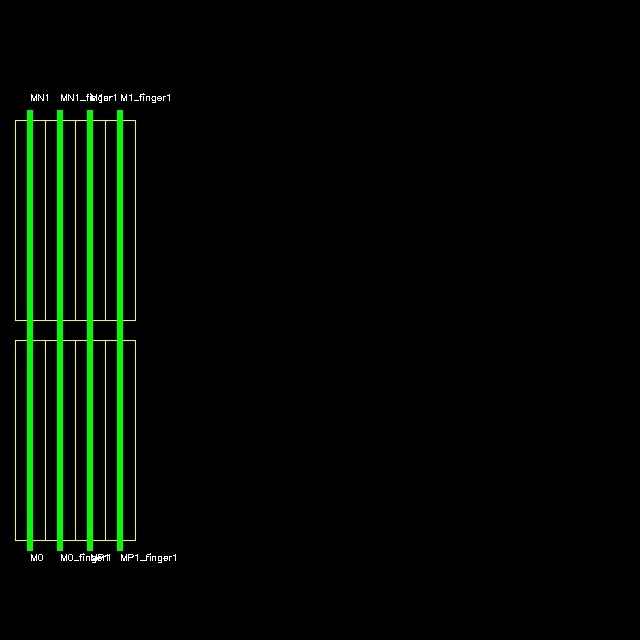
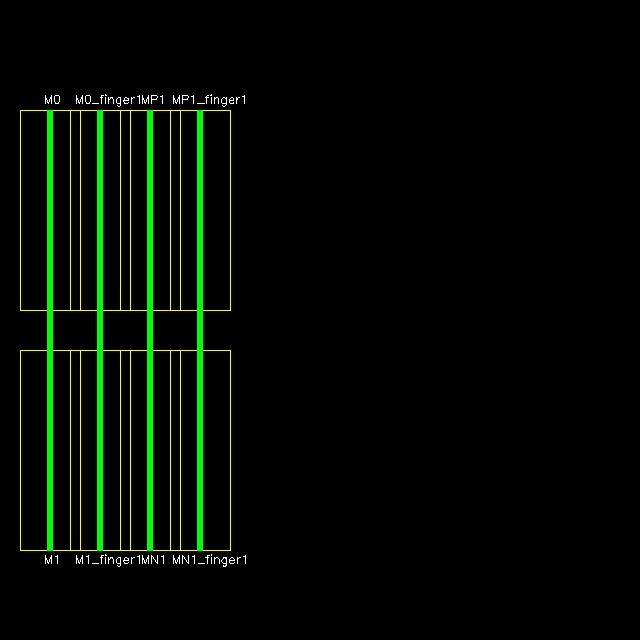
完善了对结果的可视化：两侧mos对齐及间距自适应

Changed region(s): [[0.0312, 0.125, 0.375, 0.875]]

diff --git a/visualize.py b/visualize.py
@@ -2,50 +2,32 @@
 Author       : luoweiWHUT 1615108374@qq.com
 Date         : 2023-10-18 18:42:38
 LastEditors  : luoweiWHUT 1615108374@qq.com
-LastEditTime : 2023-10-18 20:13:48
+LastEditTime : 2023-10-26 12:17:07
 FilePath     : \EDA_competition\visualize.py
 Description  : 
 '''
 import cv2,numpy
 from enum import Enum
-from typing import Any, Tuple
 class ChannelType(Enum):
     NMOS = 0,
     PMOS = 1
-class Transistor:
-    """
-    Abstract representation of a MOS transistor.
-    """
+class Mos:
+    __slots__=('name','x', 'y', 'source', 'drain', 'width')
+    def __init__(self, name,x, y, source, drain, width):
+        self.name=name
+        self.x = x
+        self.y = y
+        self.source = source
+        self.drain = drain
+        self.width = width
 
-    def __init__(self, channel_type: ChannelType,
-                 source_net: str, gate_net: str, drain_net: str,
-                 channel_width, name: str):
-        """
-        params:
-        left: Either source or drain net.
-        right: Either source or drain net.
-        """
-        self.name = name
-        self.channel_type = channel_type
-        self.source_net = source_net
-        self.gate_net = gate_net
-        self.drain_net = drain_net
-        self.channel_width = channel_width
-
-    def terminals(self) -> Tuple[Any, Any, Any]:
-        """ Return a tuple of all terminal names.
-        :return:
-        """
-        return self.source_net, self.gate_net, self.drain_net
-
-    def __key(self):
-        return self.name, self.channel_type, self.source_net, self.gate_net, self.drain_net, self.channel_width
-
-    def __hash__(self):
-        return hash(self.__key())
-
-    def __eq__(self, y):
-        return self.__key() == y.__key()
+    def __lt__(self,other):
+        if self.y==other.y:
+            return self.x<other.y
+        else:
+            return self.y > other.y
+    def __str__(self):
+        return f"'name':{self.name},'x':{self.x}, 'y':{self.y}, 'source':{self.source}, 'drain':{self.drain}, 'width:{self.width}'"
 if __name__ == "__main__":
     import sys
     import json
@@ -56,14 +38,29 @@ if __name__ == "__main__":
     with open(placement_file, 'r') as f:
         placement_data = json.load(f)
     result = numpy.zeros((640,640,3),numpy.uint8)
+    mos_list = []
     for name,mos in  placement_data['placement'].items():
-        rect = ((30*int(mos['x'])+30,220*int(mos['y'])+220),(30,int(mos['width'])),0)
+        mos_list.append(Mos(name,int(mos['x']),int(mos['y']),mos['source'], mos['drain'], int(mos['width'])))
+    print(mos_list[0])
+    mos_list.sort()
+    ###visulize
+    mos_lenth = 60
+    unit = 50
+    last_mos = None
+    for mos in mos_list:
+        if last_mos and last_mos.y == mos.y:
+            real_x+= (unit if last_mos.drain==mos.source else 2*unit)        
+        else:
+            real_x= unit
+        rect = ((real_x,110+mos.width//2 if mos.y==1 else 550-mos.width//2),(mos_lenth,mos.width),0)
         box = numpy.int32(cv2.boxPoints(rect))
         cv2.drawContours(result, [box], -1, (0, 255,255), 1)
-        rect = ((30*int(mos['x'])+30,330),(5,440),0)
+        rect = ((real_x,330),(5,440),0)
         box = numpy.int32(cv2.boxPoints(rect))
         cv2.drawContours(result, [box], -1, (0, 255,0), -1)
-        cv2.putText(result, name, (30*int(mos['x'])+30,100 if int(mos['y'])==0 else 560), None, 0.3, (255,255,255), thickness=1, lineType=cv2.LINE_8, bottomLeftOrigin=None)
+        text_size, _ = cv2.getTextSize(mos.name, None, 0.3, 1)
+        cv2.putText(result, mos.name, (real_x-text_size[0]//2,100+text_size[1]//2 if mos.y==1 else 560+text_size[1]//2), None, 0.4, (255,255,255), thickness=1, lineType=cv2.LINE_8, bottomLeftOrigin=None)
+        last_mos = mos
     cv2.imwrite('result.jpg',result)
 
     
